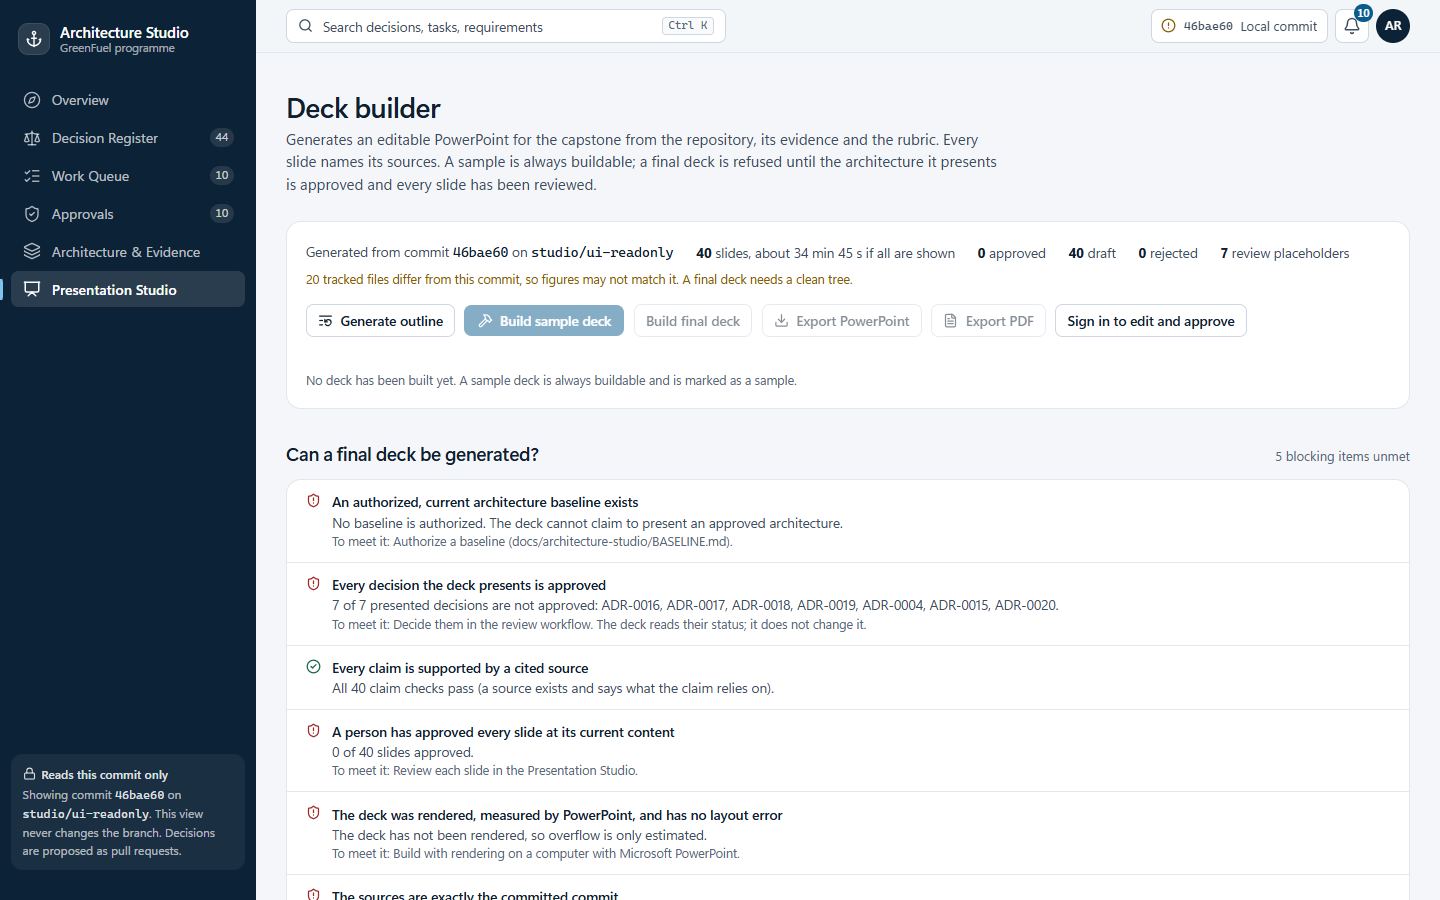
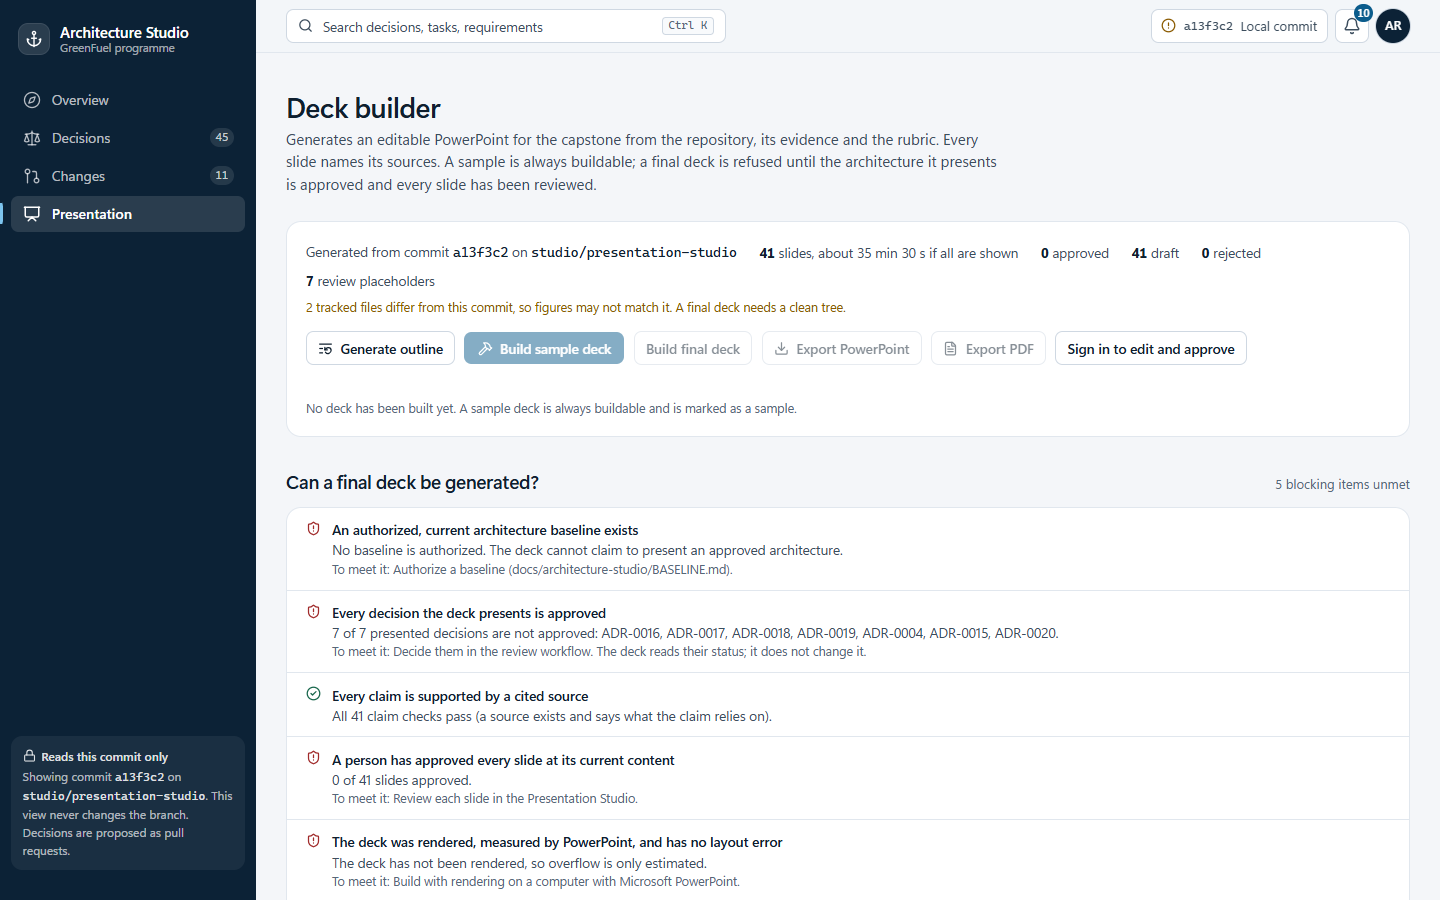
Presentation Studio: restore-order control, browser tests for moving slides and notes, documentation of the brief mapping

diff --git a/apps/architecture-studio/e2e/deck.spec.ts b/apps/architecture-studio/e2e/deck.spec.ts
@@ -92,7 +92,7 @@ test.describe('deck builder: reading', () => {
     await expect(page).toHaveURL(/slide=E02/);
     await page.getByTestId('slide-E02').focus();
     await page.keyboard.press('ArrowDown');
-    await expect(page.getByTestId('slide-detail')).toHaveAttribute('data-slide-id', 'E03');
+    await expect(page.getByTestId('slide-detail')).toHaveAttribute('data-slide-id', 'E02B');
     await page.keyboard.press('ArrowUp');
     await expect(page.getByTestId('slide-detail')).toHaveAttribute('data-slide-id', 'E02');
   });
@@ -233,6 +233,66 @@ test.describe('deck builder: acting, with real roles', () => {
     expect((await page.request.post(`${WRITE}/api/v1/deck/actions`, { headers: { 'content-type': 'application/json', origin: WRITE }, data: { action: 'reset', slideId: 'E08', expectedRevision: view.model.revision } })).status(), 'missing CSRF token').toBe(403);
   });
 
+  test('an owner moves a slide and rewrites its notes; the title slide stays first; the server enforces both', async ({ page }) => {
+    await signInAs(page, USERS.owner);
+    const order = () => page.locator('[data-slide]').evaluateAll((els) => els.map((e) => e.getAttribute('data-slide')));
+    const before = await order();
+    expect(before.slice(0, 3)).toEqual(['E01', 'E02', 'E02B']);
+    // The title slide cannot move, and nothing can move into its place.
+    await slide(page, 'E01');
+    await expect(page.getByTestId('move-up')).toBeDisabled();
+    await expect(page.getByTestId('move-down')).toBeDisabled();
+    await slide(page, 'E02');
+    await expect(page.getByTestId('move-up')).toBeDisabled();
+
+    await slide(page, 'E06');
+    await page.getByTestId('move-up').click();
+    await expect.poll(order).toEqual([...before.slice(0, 5), 'E06', 'E05', ...before.slice(7)]);
+    await expect(page.getByTestId('reordered-note')).toBeVisible();
+    await expect(page.getByTestId('slide-detail')).toContainText('Slide 6 of');
+
+    // The spoken script: edited, labelled as not claim-checked, and it withdraws a review.
+    await page.getByTestId('approve').click();
+    await expect(page.getByTestId('slide-E06')).toContainText('Approved');
+    await page.getByText('Speaker notes, timing and rubric').click();
+    await page.getByTestId('notes-input').fill('Here is my own script for this slide, in my own words.');
+    await page.getByTestId('notes-save').click();
+    await expect(page.getByTestId('slide-E06')).toContainText('Draft');
+    await expect(page.getByTestId('slide-notes')).toContainText('edited, not claim-checked');
+    await expect(page.getByTestId('slide-notes')).toContainText('Say plainly');
+    await expect(page.getByTestId('notes-input')).toHaveValue('Here is my own script for this slide, in my own words.');
+    // Regenerating returns the generated script and keeps the slide where the person put it.
+    await page.getByTestId('regenerate').click();
+    await expect(page.getByTestId('notes-input')).not.toHaveValue(/my own script/);
+    expect((await order()).indexOf('E06')).toBe(5);
+
+    // The server, not the screen, enforces the rules.
+    const csrf = (await (await page.request.get(`${WRITE}/api/v1/auth/session`)).json()).csrf as string;
+    const rev = async () => (await (await page.request.get(`${WRITE}/api/v1/deck`)).json()).model.revision as number;
+    const post = async (data: object, headers: Record<string, string> = {}) => page.request.post(`${WRITE}/api/v1/deck/actions`, { headers: { 'content-type': 'application/json', origin: WRITE, 'x-studio-csrf': csrf, ...headers }, data });
+    expect((await post({ action: 'move', slideId: 'E01', direction: 'down', expectedRevision: await rev() })).status(), 'title slide fixed').toBe(422);
+    expect((await post({ action: 'move', slideId: 'E02', direction: 'up', expectedRevision: await rev() })).status(), 'nothing enters the title place').toBe(422);
+    expect((await post({ action: 'move', slideId: 'E05', direction: 'sideways', expectedRevision: await rev() })).status(), 'only up or down').toBe(422);
+    expect((await post({ action: 'move', slideId: 'NOPE', direction: 'up', expectedRevision: await rev() })).status(), 'unknown slide').toBe(404);
+    expect((await post({ action: 'edit-notes', slideId: 'E05', notes: 'short', expectedRevision: await rev() })).status(), 'empty notes').toBe(422);
+    expect((await post({ action: 'move', slideId: 'E05', direction: 'up', expectedRevision: (await rev()) - 1 })).status(), 'old revision').toBe(409);
+    expect((await post({ action: 'move', slideId: 'E05', direction: 'up', expectedRevision: await rev() }, { origin: 'http://evil.example' })).status(), 'cross-origin').toBe(403);
+
+    // The person can put the generated order back.
+    await page.getByTestId('reset-order').click();
+    await expect(page.getByTestId('reordered-note')).toHaveCount(0);
+    await expect.poll(order).toEqual(before);
+
+    // A viewer cannot move slides, even by calling the API.
+    await signInAs(page, USERS.outsider);
+    await slide(page, 'E06');
+    await expect(page.getByTestId('move-up')).toBeDisabled();
+    await expect(page.getByTestId('notes-save')).toBeDisabled();
+    const vcsrf = (await (await page.request.get(`${WRITE}/api/v1/auth/session`)).json()).csrf as string;
+    const vr = await page.request.post(`${WRITE}/api/v1/deck/actions`, { headers: { 'content-type': 'application/json', origin: WRITE, 'x-studio-csrf': vcsrf }, data: { action: 'move', slideId: 'E06', direction: 'up', expectedRevision: await rev() } });
+    expect(vr.status()).toBe(403);
+  });
+
   test('builds a sample deck, previews its slides, and exports it as PowerPoint and PDF', async ({ page }) => {
     await signInAs(page, USERS.owner);
     await slide(page, 'E07');
@@ -255,6 +315,13 @@ test.describe('deck builder: acting, with real roles', () => {
       expect(res.headers()['content-disposition']).toContain('SAMPLE');
       expect((await res.body()).subarray(0, magic.length).toString()).toBe(magic);
     }
+    // Moving a slide after the build must not make its preview show a different slide: previews are looked up in the build's own order.
+    const built = (await (await page.request.get(`${WRITE}/api/v1/deck`)).json()).latest.slideOrder as string[];
+    await page.getByTestId('move-up').click();
+    await expect(page.getByTestId('order-stale')).toContainText('Build again before exporting');
+    await expect(page.getByTestId('slide-preview')).toHaveAttribute('src', new RegExp(`/preview/${built.indexOf('E07') + 1}\\?`));
+    await page.getByTestId('reset-order').click();
+    await expect(page.getByTestId('order-stale')).toHaveCount(0);
     // a change after the build makes that slide's preview out of date, and it says so
     await page.getByTestId('title-input').fill('Recommend sovereign cells and bounded agents');
     await page.getByTestId('title-save').click();

diff --git a/apps/architecture-studio/src/components/deck/deck-studio.tsx b/apps/architecture-studio/src/components/deck/deck-studio.tsx
@@ -148,7 +148,14 @@ export function DeckStudio() {
             </ul>
           </div>
         ) : null}
-        {model.reordered ? <p className="mt-2 text-[12.5px] text-ink-3" data-testid="reordered-note">The slide order differs from the generated one. The speaker notes still say what comes next as they were written, so read them again after moving slides.</p> : null}
+        {model.reordered ? (
+          <p className="mt-2 text-[12.5px] text-ink-3" data-testid="reordered-note">
+            The slide order differs from the generated one. The speaker notes still say what comes next as they were written, so read them again after moving slides.{' '}
+            <button type="button" className="font-medium text-accent hover:underline disabled:opacity-50" data-testid="reset-order" disabled={!!busy || !signedIn || !me.canEdit} onClick={() => void post('/api/v1/deck/actions', { action: 'reset-order', expectedRevision: model.revision }, 'Restoring the generated order')}>
+              Restore the generated order
+            </button>
+          </p>
+        ) : null}
         {orderStale ? <p className="mt-2 text-[12.5px] text-[var(--s-open-fg)]" data-testid="order-stale">The slide order changed after the latest build, so the exported file has the old order. Build again before exporting.</p> : null}
         <div className="mt-4 flex flex-wrap items-center gap-2.5">
           <button type="button" className={btn} disabled={!!busy} onClick={() => void load()} data-testid="regenerate-outline">

diff --git a/docs/architecture-studio/PRESENTATION-STUDIO.md b/docs/architecture-studio/PRESENTATION-STUDIO.md
@@ -1,6 +1,6 @@
 # Presentation Studio: generating the capstone deck
 
-Status: built and tested locally on this computer. **Not pushed, not approved, not reviewed by a person, never rehearsed.** The deck it produces today is a **sample**. A final deck cannot be generated yet, and the reasons are on the page and in [Gate](#the-gate-for-a-final-deck).
+Status: built and tested. The deck it produces today is a **sample**: not approved for presentation, not reviewed by a person, never rehearsed. A final deck cannot be generated yet, and the reasons are on the page and in [Gate](#the-gate-for-a-final-deck). It is not a claim that the deck is VCDX-quality: how it looks says nothing about whether the architecture would survive a panel, and the gate and the limitations below say what is still missing.
 
 ## What it does
 
@@ -31,9 +31,9 @@ It reads this repository at one commit and builds an **editable PowerPoint** wit
 
 ## The deck
 
-40 slides in three parts, adapted from the requested structure to what the repository can evidence. The panel's time allocation is not known (see [OQ-DECK-1](#decisions-for-the-owner)), so each slide carries a time and the page totals them.
+41 slides in three parts, adapted from the requested structure to what the repository can evidence. The panel's time allocation is not known (see [OQ-DECK-1](#decisions-for-the-owner)), so each slide carries a time and the page totals them.
 
-* **Executive story (E01 to E14):** thesis; the problem; value at stake; benefit and cost of inaction; why today's process is not enough; four options on eleven criteria; the recommendation; why it wins; the agentic workflow; evidence and sovereignty; the live-demo narrative; measured results; cost; the decision.
+* **Executive story (E01 to E14, with E02B):** thesis; the problem; the stakeholders; value at stake; benefit and cost of inaction; why today's process is not enough; four options on eleven criteria; the recommendation; why it wins; the agentic workflow; evidence and sovereignty; the live-demo narrative; measured results; cost; the decision.
 * **Technical defence (T01 to T13):** context and requirements; Azure service selection; edge-to-shore flows; the five agents and their autonomy ceilings; security, identity and isolation; evidence integrity; scalability; availability and recovery; observability; AI evaluation; trade-offs and rejected alternatives; risks; roadmap.
 * **Appendix (A01 to A13):** ADR status; requirement traceability; Azure topology; data-flow register; performance evidence; cost assumptions; threat model; agent evaluation; test coverage; known gaps; panel Q&A; rubric coverage; provenance.
 
@@ -71,6 +71,66 @@ No photograph is used. There is no approved image generator and no licensed phot
 
 An AI agent has no session, so it cannot approve a slide. The slide decision is an **editorial** decision recorded with the person's identity in the Studio's own state; it is not an architecture approval and authorizes nothing outside the deck.
 
+## The brief, mapped to what exists
+
+### The twelve pipeline steps
+
+| # | Step | Where it happens | State |
+|---|---|---|---|
+| 1 | Read the approved architecture baseline | `context.ts` reads baseline readiness and the policy gates | Done. **No baseline is authorized**, so the deck is a sample and a final deck is refused |
+| 2 | Collect supporting evidence | `context.ts` (every source read is hashed), `harness/demo/facts.mjs` | Done |
+| 3 | Identify unsupported claims | `claims.ts`; an unsupported claim becomes a visible placeholder | Done (41 of 41 supported) |
+| 4 | Create an executive narrative | `content.ts`, executive tier E01 to E14 | Done |
+| 5 | Propose a slide outline | "Generate outline" in the builder, and `deck.ts outline` | Done |
+| 6 | Approve slides individually | `store.ts`: one slide at a time, no bulk, bound to the content hash | Done |
+| 7 | Select the visual type | Alternative visuals, offered only when they lose no information | Done |
+| 8 | Editable diagrams and charts | `draw.ts`, `visuals.ts`: native shapes, charts and tables | Done |
+| 9 | Add approved imagery | `assets.ts`: needs source, licence, a named approver and a matching hash | **No image is approved.** Original vector artwork is used (OQ-DECK-2) |
+| 10 | Render previews | PowerPoint, 41 previews | Done on a Windows computer with PowerPoint |
+| 11 | Detect overflow and layout defects | `qa.ts`, reading PowerPoint's own measured layout | Done: 0 errors, 0 warnings on the sample |
+| 12 | Export PPTX and PDF | `/api/v1/deck/export/*`, served only if the file matches its recorded hash | Done |
+
+### The requested slide topics
+
+Each topic below has a slide. The test `the requested slide topics` finds them by title and section.
+
+| Topic | Slide |
+|---|---|
+| Business problem | E02 |
+| Commercial stakes | E03, E04 |
+| Stakeholders | E02B (built from `docs/business/STAKEHOLDERS.md`; the case names two, the rest are candidates) |
+| Architecture alternatives | E06, T11 |
+| Recommended solution | E07, E08 |
+| Azure architecture | T02, A03 |
+| Five business agents | T04, with the workflow on E09 |
+| Edge-to-shore flow | T03, A12 |
+| Data sovereignty | E10 |
+| Evidence integrity | T06 |
+| Agent autonomy | T04 (the five agents and their autonomy ceilings share one slide) |
+| Security | T05, A06 |
+| Reliability and recovery | T08 |
+| Cost and ROI | E04, E13, A05 |
+| Operational metrics | T07, T09, A04 (placeholders: nothing is instrumented) |
+| Evaluation results | E12, T10, A07 |
+| Risks | T12, A09 |
+| Recommendation | E14 |
+| Technical appendix | A01 to A13 |
+
+### Editing
+
+Slide title, visual choice, speaker notes, order, approval, rejection and regeneration are each one action on one slide, checked on the server. Source inspection is the evidence list on each slide, linking every file at the exact commit.
+
+* **Speaker notes** replace the spoken script only. The "say plainly" limit, timing and rubric stay. An edited script is labelled "edited, not claim-checked", because the claim checks do not read it. Saving withdraws any review of the slide. Regenerating the slide restores the generated script.
+* **Order** moves one slide one place. The title slide stays first, and nothing can move into its place. A stored order can never drop, repeat or invent a slide. Moving does not withdraw an approval, because the slide itself did not change. A build records its own order, so a preview is always the right slide, and the page says when the order changed after the latest build.
+
+### When an approved decision changes
+
+A slide's content hash includes the **status the register gives each decision the slide leans on**. An approval is stored with the status of each of those decisions at the time. If a decision changes (for example ADR-0016 from Blocked to Approved), every slide that cites it stops counting as reviewed, the page names the slides and says which decision moved, and nothing is rewritten. A person reviews the current version again. A decision a slide does not cite changes nothing on it. (This was a gap: the hash covered decision ids but not their status.)
+
+### Loading only when needed
+
+`pptxgenjs` and `jszip` are imported inside the functions that build or inspect a file. Checked three ways: no browser chunk of the production build contains either, preparing and reviewing all 41 slides loads neither (module cache checked at run time), and a build loads them. The editor does not import them.
+
 ## The gate for a final deck
 
 A sample is always buildable and is marked on every slide and in the file name. A final deck needs every blocking item:
@@ -79,8 +139,8 @@ A sample is always buildable and is marked on every slide and in the file name. 
 |---|---|
 | An authorized, current architecture baseline exists | **Unmet.** No baseline; none can be authorized yet ([BASELINE](BASELINE.md)) |
 | Every decision the deck presents is approved | **Unmet.** 7 of 7 are not (ADR-0016 to 0019 Blocked, ADR-0004 and 0015 Blocked, ADR-0020 Proposed) |
-| Every claim is supported by a cited source | Met (40 of 40) |
-| A person approved every slide at its current content | **Unmet.** 0 of 40 |
+| Every claim is supported by a cited source | Met (41 of 41) |
+| A person approved every slide at its current content | **Unmet.** 0 of 41 |
 | Rendered, measured by PowerPoint, no layout error | Met when built on this computer |
 | Sources are exactly the committed commit | Met on a clean tree |
 | Placeholders; rehearsal | Informational. 7 placeholders; 0 of 10 rehearsal criteria recorded |
@@ -95,8 +155,8 @@ Each build writes `generation.json` next to the file: the commit and branch, the
 
 | Check | What it covers | Result |
 |---|---|---|
-| `checks/deck.check.ts` | table parsing and clipping; contrast (29 text and background pairs); claim checks including negative cases; content at HEAD (structure, notes, placeholders, numbers from sources); alternative visuals; slide decisions (stale, reason, acknowledgement, concurrency, control characters); the gate (each item flips it); asset licensing (7 failure modes); quality detectors against deliberately bad input; the built file (native, no pictures, notes on every slide, audit record, final refused); a real PowerPoint render and an overflow detector proven against deliberately overflowing text | 93 of 93 |
-| `e2e/deck.spec.ts` | the page, gate reasons, filters, keyboard, axe, tablet width, loading and error states, real roles (viewer, contributor, owner), stale and cross-origin and CSRF refusals, a real build with preview and PowerPoint and PDF export, a refused final deck | 16 of 16 |
+| `checks/deck.check.ts` | table parsing and clipping; contrast (29 text and background pairs); claim checks including negative cases; content at HEAD (structure, notes, placeholders, numbers from sources); alternative visuals; slide decisions (stale, reason, acknowledgement, concurrency, control characters); the gate (each item flips it); asset licensing (7 failure modes); quality detectors against deliberately bad input; the built file (native, no pictures, notes on every slide, audit record, final refused); a real PowerPoint render and an overflow detector proven against deliberately overflowing text; a decision change making exactly the citing slides stale (against the real register); moving and note editing, with their limits; the built file following a chosen order and edited notes; every requested topic having a slide; the stakeholder slide; lazy loading | 109 of 109 |
+| `e2e/deck.spec.ts` | the page, gate reasons, filters, keyboard, axe, tablet width, loading and error states, real roles (viewer, contributor, owner), stale and cross-origin and CSRF refusals, moving slides and editing notes (including the server refusing a moved title slide, a viewer, a stale revision and a cross-origin call), a preview staying correct after a reorder, a real build with preview and PowerPoint and PDF export, a refused final deck | 17 of 17 |
 | CLI on this repository | `check`, refused `final`, `build`, `verify` | as expected, exit 2 for the refusals |
 
 The sample deck was built and rendered by Microsoft PowerPoint: 0 errors, 0 warnings, 8 notes (placeholders and live-only criteria). I inspected the rendered slides myself at contact-sheet resolution and fixed what I saw (a text-width estimator that was too conservative, a cell diagram that clipped, a table that overran, truncated table cells, ambiguous icon monograms).
@@ -115,6 +175,10 @@ The sample deck was built and rendered by Microsoft PowerPoint: 0 errors, 0 warn
 10. **Font.** Segoe UI; PowerPoint on another system will substitute and layout may change.
 11. **Not tested in a pull request or CI**; PowerPoint rendering cannot run on a hosted runner.
 12. **Single-owner reality:** one person can edit and approve their own slides. Segregation of duties is not applied to slides.
+13. **Moving a slide does not rewrite the "next" line in its notes**, which was written for the generated order. The page says so; the presenter rereads the notes after reordering.
+14. **A decision change is shown in the browser only as far as the data allows.** The unit tests prove it against the real register and a moved decision. The browser fixture has no way to change a decision in its clone, so the banner and the "decision changed" tag are not driven end to end in a browser.
+15. **No generated or licensed maritime photograph is in the deck.** No image generator or licensed image has been approved, and an AI agent cannot approve an asset. The title vessel and diagrams are original vector artwork; a hero image enters only through the asset manifest (OQ-DECK-2).
+16. **The stakeholder slide shows a clipped "Decides" text** (shortened with an ellipsis to keep the slide light). The full text is in the cited source.
 
 ## Decisions for the owner
 
